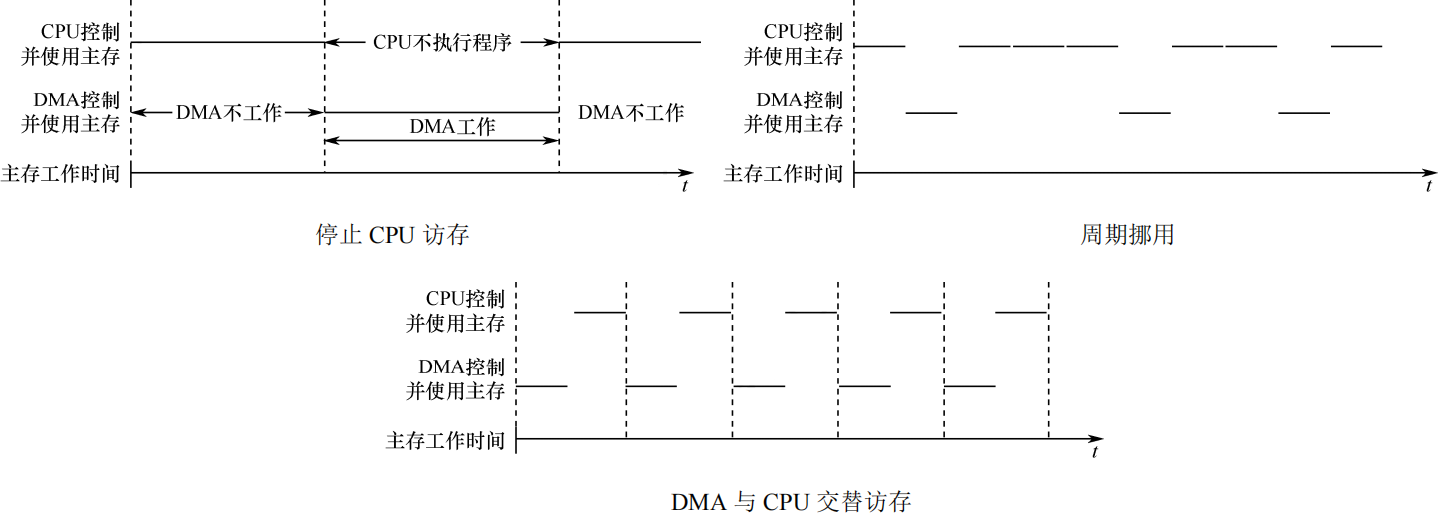
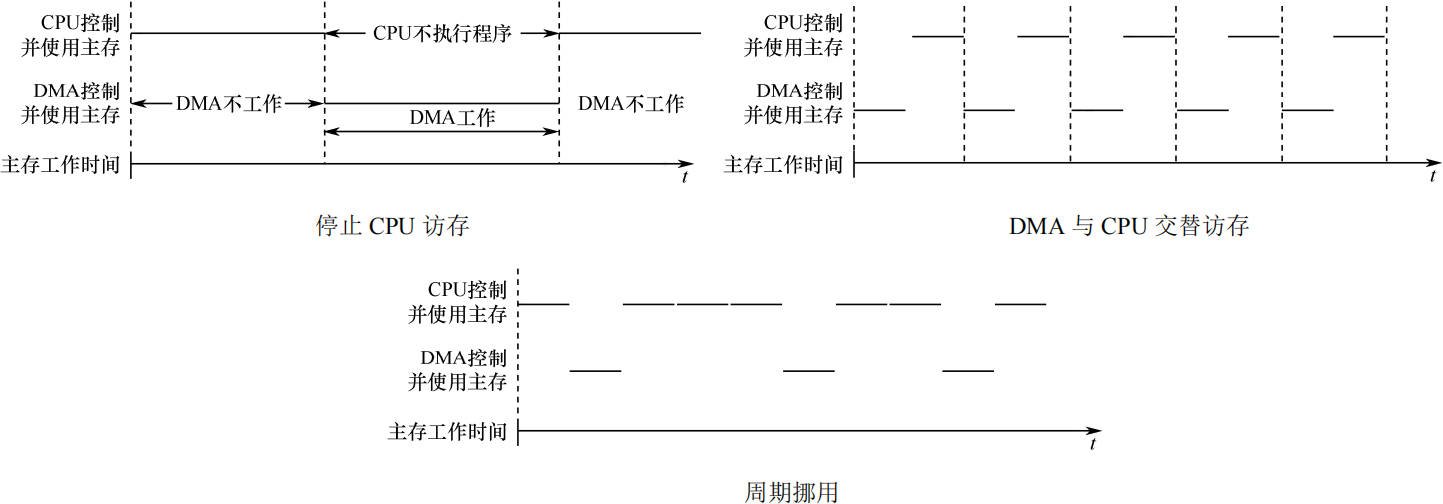
408/02-计算机组成原理.md 09/18

diff --git a/.vitepress/theme/feature.css b/.vitepress/theme/feature.css
@@ -103,19 +103,33 @@ html.dark .medium-zoom-image {
 /*
  * 打印时章节分页，
  *   保持边距和网页一致，
+ *   避免单元格被拆分
  *   添加页眉页脚，
  *   隐藏VPNav和VPLocalNav
  */
 @media print {
     .content h2:not(:first-of-type) {
-      page-break-before: always;
-      break-before: page;
+        page-break-before: always;
+        break-before: page;
+    }
+
+    p, li {
+        orphans: 2;
+        widows: 2;
+    }
+
+    h1, h2, h3, h4 {
+        break-after: avoid;
+    }
+
+    tr {
+        break-inside: avoid;
     }
 
     .VPNav,
     .VPLocalNav,
     .VPDocFooter {
-      display: none;
+        display: none;
     }
 
     @page {

diff --git a/docs/408/03-操作系统.md b/docs/408/03-操作系统.md
@@ -398,15 +398,15 @@ remainder section;           remainder section;       //剩余区
   <thead>
     <tr>
       <th>互斥的软件实现</th>
-      <th style="text-align: center">缺点</th>
-      <th style="text-align: center">是否互斥</th>
+      <th>缺点</th>
+      <th>是否互斥</th>
     </tr>
   </thead>
   <tbody>
     <tr>
       <td>单一标志法</td>
       <td>违反空闲让进、让权等待</td>
-      <td rowspan="3" style="text-align: center">不能实现互斥</td>
+      <td rowspan="3">不能实现互斥</td>
     </tr>
     <tr>
       <td>双标志先检查</td>
@@ -772,28 +772,28 @@ void philosopher_i(){
 <table>
   <thead>
     <tr>
-      <th align="center">临界条件</th>
-      <th align="center">资源</th>
+      <th>临界条件</th>
+      <th>资源</th>
       <th>方法</th>
     </tr>
   </thead>
   <tbody>
     <tr>
-      <td align="center" rowspan="2">不发生死锁</td>
-      <td align="center"><emp>资源最小值</emp></td>
+      <td rowspan="2">不发生死锁</td>
+      <td><emp>资源最小值</emp></td>
       <td><emp>让每个进程都差一个资源，此时资源数+1</emp></td>
     </tr>
     <tr>
-      <td align="center">进程最大值</td>
+      <td>进程最大值</td>
       <td>让每个进程都差一个资源，此时进程数-1</td>
     </tr>
     <tr>
-      <td align="center" rowspan="2">会发生死锁</td>
-      <td align="center">资源最大值</td>
+      <td rowspan="2">会发生死锁</td>
+      <td>资源最大值</td>
       <td>让每个进程都差一个资源，此时资源数</td>
     </tr>
     <tr>
-      <td align="center"><emp>进程最小值</emp></td>
+      <td><emp>进程最小值</emp></td>
       <td><emp>让每个进程都差一个资源，此时进程数</emp></td>
     </tr>
   </tbody>

diff --git a/docs/408/06-计组基础题型.md b/docs/408/06-计组基础题型.md
@@ -3719,7 +3719,7 @@
 
 <options :options="['Ⅰ. DMA的优先级比程序中断的优先级要高', 'Ⅱ. 程序中断方式需要保存现场，DMA方式在传输过程中不需要保存现场', 'Ⅲ. 程序中断方式的中断请求是为了报告CPU数据的传输结束，而DMA方式的中断请求完全是为了传送数据']" :columns="1" />
 
-<options :options="['A. 仅Ⅱ', 'B. Ⅰ、Ⅱ', 'C. 仅Ⅲ', 'D. Ⅰ、Ⅲ']" />
+<options :options="['A. 仅Ⅱ', 'B. Ⅱ、Ⅲ', 'C. 仅Ⅲ', 'D. Ⅰ、Ⅲ']" />
 
 ::: answer
 答案：C。
